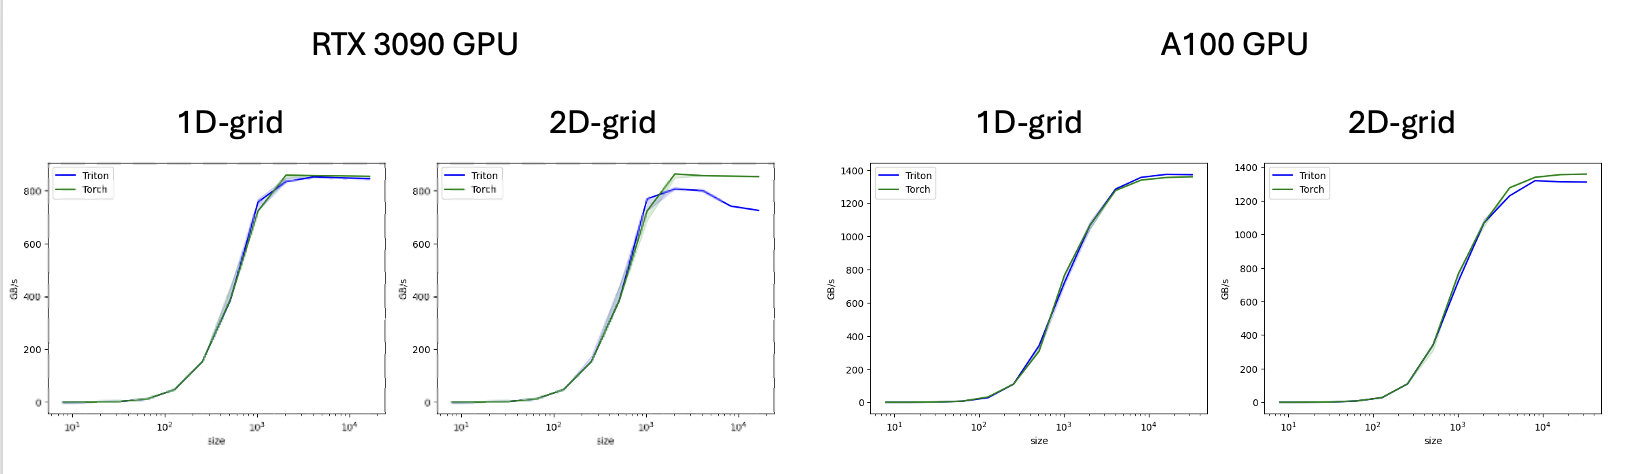
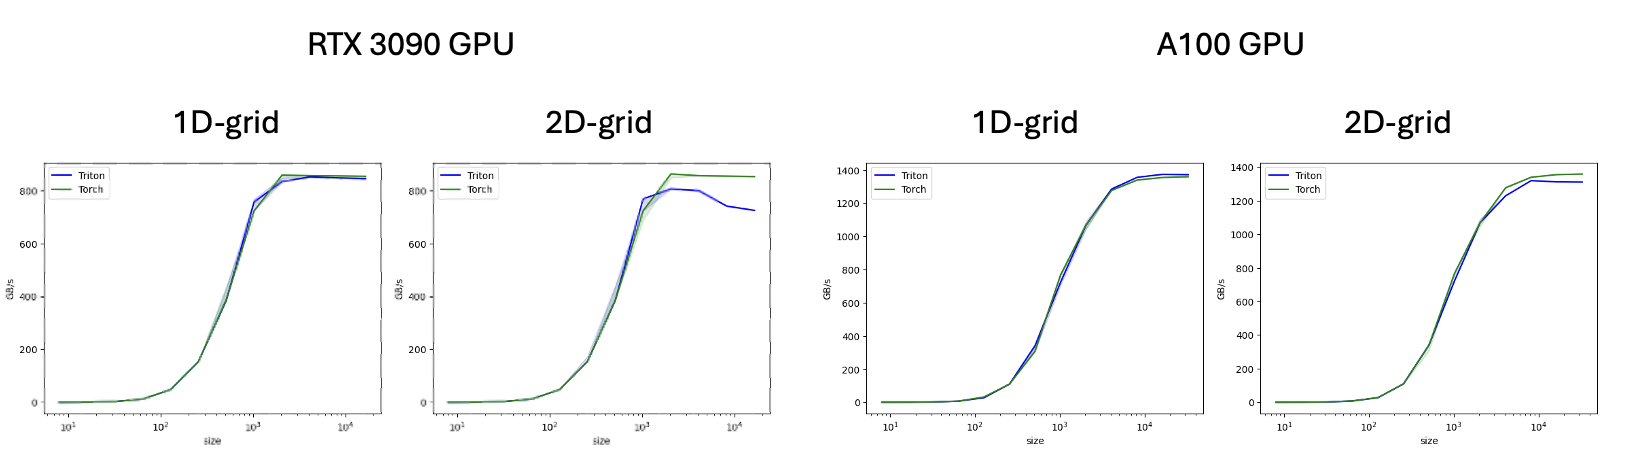
image resize

diff --git a/_posts/2024-12-03-tritan-tutorial.md b/_posts/2024-12-03-tritan-tutorial.md
@@ -64,5 +64,5 @@ def add(x: torch.Tensor, y: torch.Tensor, pid_dim=1, BLOCK_SIZE=32):
 After running the benchmarks I was surprised to see that without much optimization the kernel performed equally well to the default torch addition kernel! Intriguingly, the performance of the 1d-grid-kernel was better than the 2d-grid kernel on an RTX 3090 GPU, yet the performances were more similar on an A100 GPU. If there are any Tritan wizards out there, please feel free to let me know why!
 
 <div align="center">
-<img src="/docs/assets/kernel_performance.png" width="400" height="auto">
+<img src="/docs/assets/kernel_performance.png" width="auto" height="auto">
 </div>
